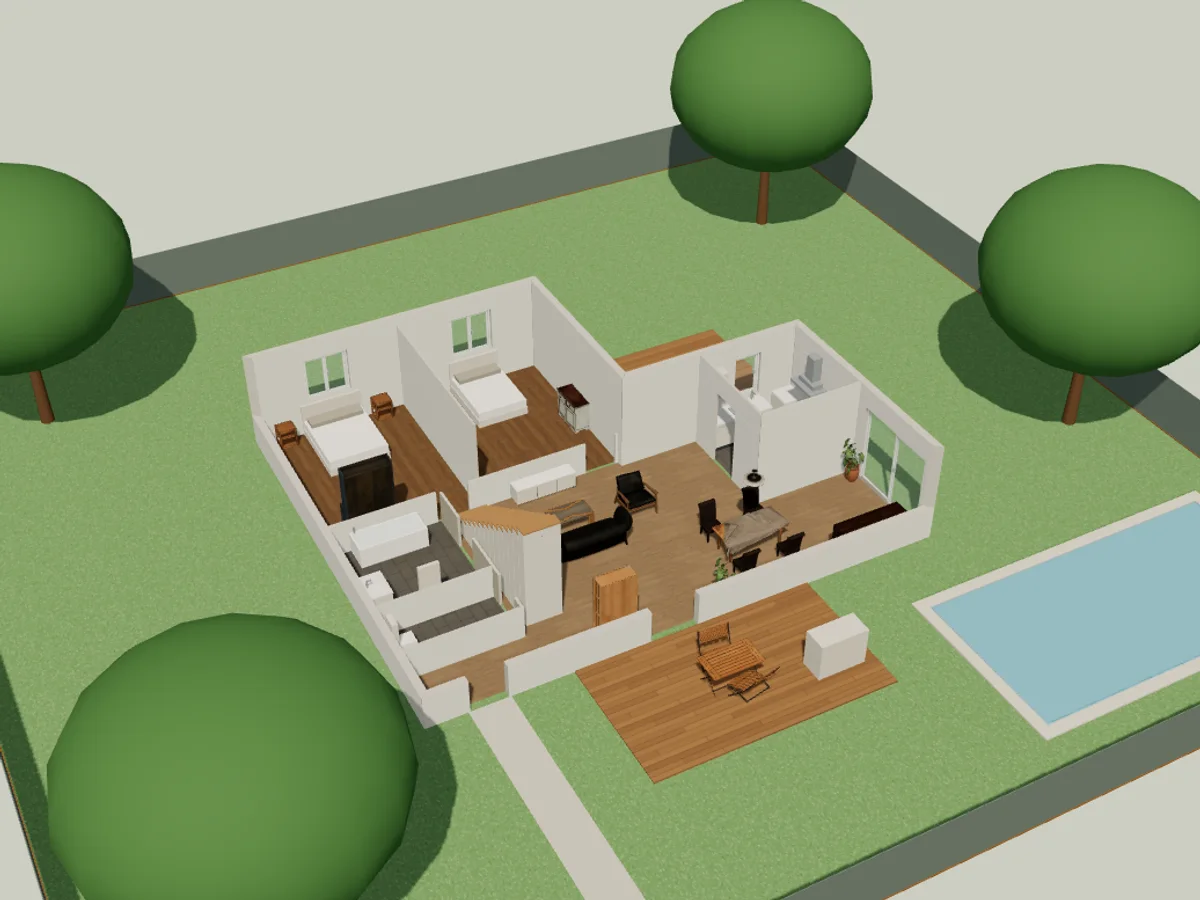
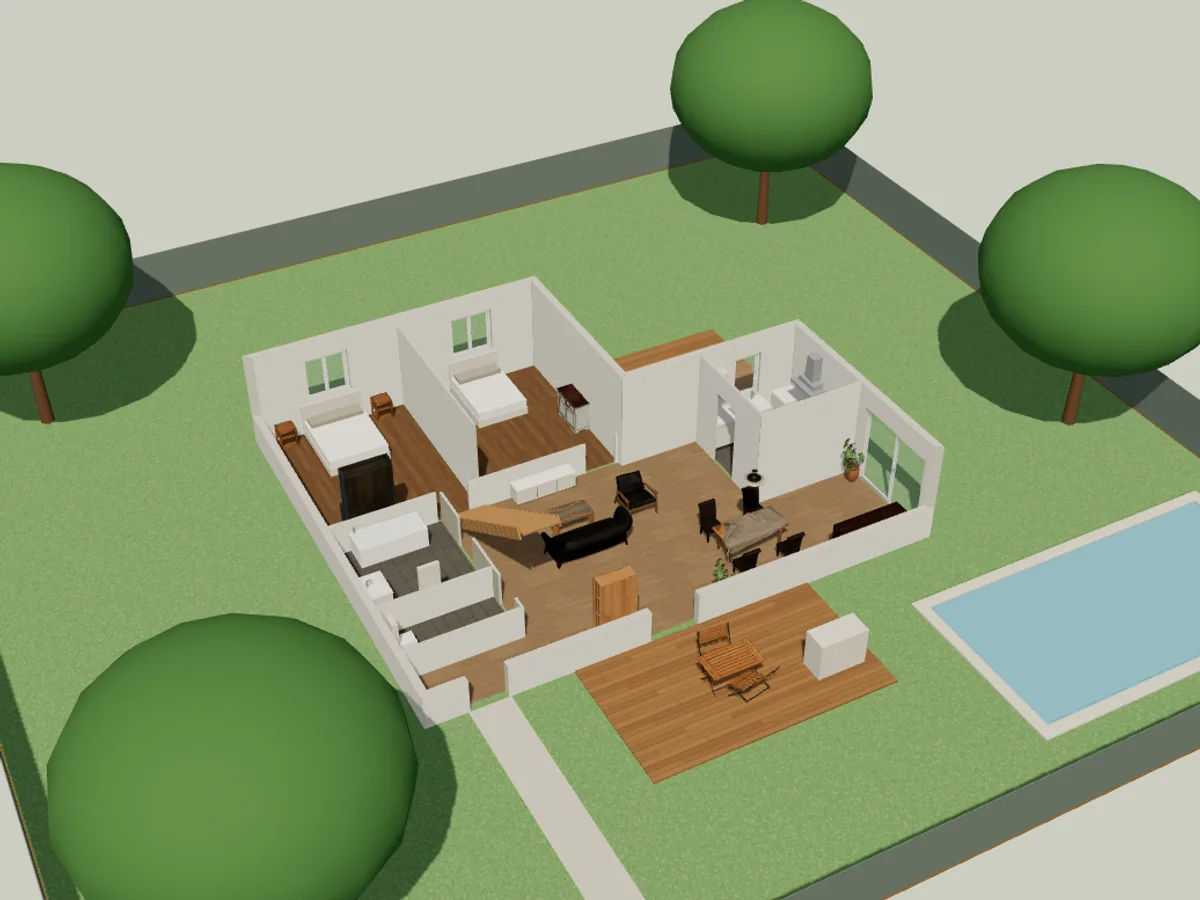
fix(plans): escalier ouvert dans les captures du curseur 2D / 3D
L'escalier plein formait un bloc massif en 3D : la capture règle son
dessous sur « Ouvert » (marches seules) avant de photographier.

Claude-Session: https://claude.ai/code/session_0186asBeLCGudMG6c7BCvhHd

Changed region(s): [[0.37, 0.56, 0.4933, 0.7156]]

diff --git a/apps/web/e2e-pro/captures-plans.spec.ts b/apps/web/e2e-pro/captures-plans.spec.ts
@@ -82,6 +82,22 @@ test('captures Plans 2D et 3D', async ({ page }, info) => {
   await page.getByRole('radio', { name: /Maison en L meublée/ }).check();
   await page.getByRole('button', { name: 'Créer le plan' }).click();
   await expect(page.getByTestId('plan-2d').getByRole('button', { name: /^Pièce / })).toHaveCount(6);
+  // Escalier ouvert (marches seules) : un escalier plein fait un bloc massif en 3D.
+  await page
+    .getByTestId('plan-2d')
+    .getByRole('button', { name: /^Escalier de / })
+    .click();
+  await page
+    .getByRole('radiogroup', { name: 'Dessous' })
+    .getByRole('radio', { name: 'Ouvert' })
+    .click();
+  await expect(
+    page.getByRole('radiogroup', { name: 'Dessous' }).getByRole('radio', { name: 'Ouvert' }),
+  ).toHaveAttribute('aria-checked', 'true');
+  await page.keyboard.press('Escape');
+  await expect(page.getByRole('status').filter({ hasText: 'Enregistré' })).toBeAttached({
+    timeout: 10_000,
+  });
   let m = await maison(page);
   await zoomer(page, m.cx, m.cy, Number(process.env.CRANS_2D ?? 3));
   await page.waitForTimeout(600);
